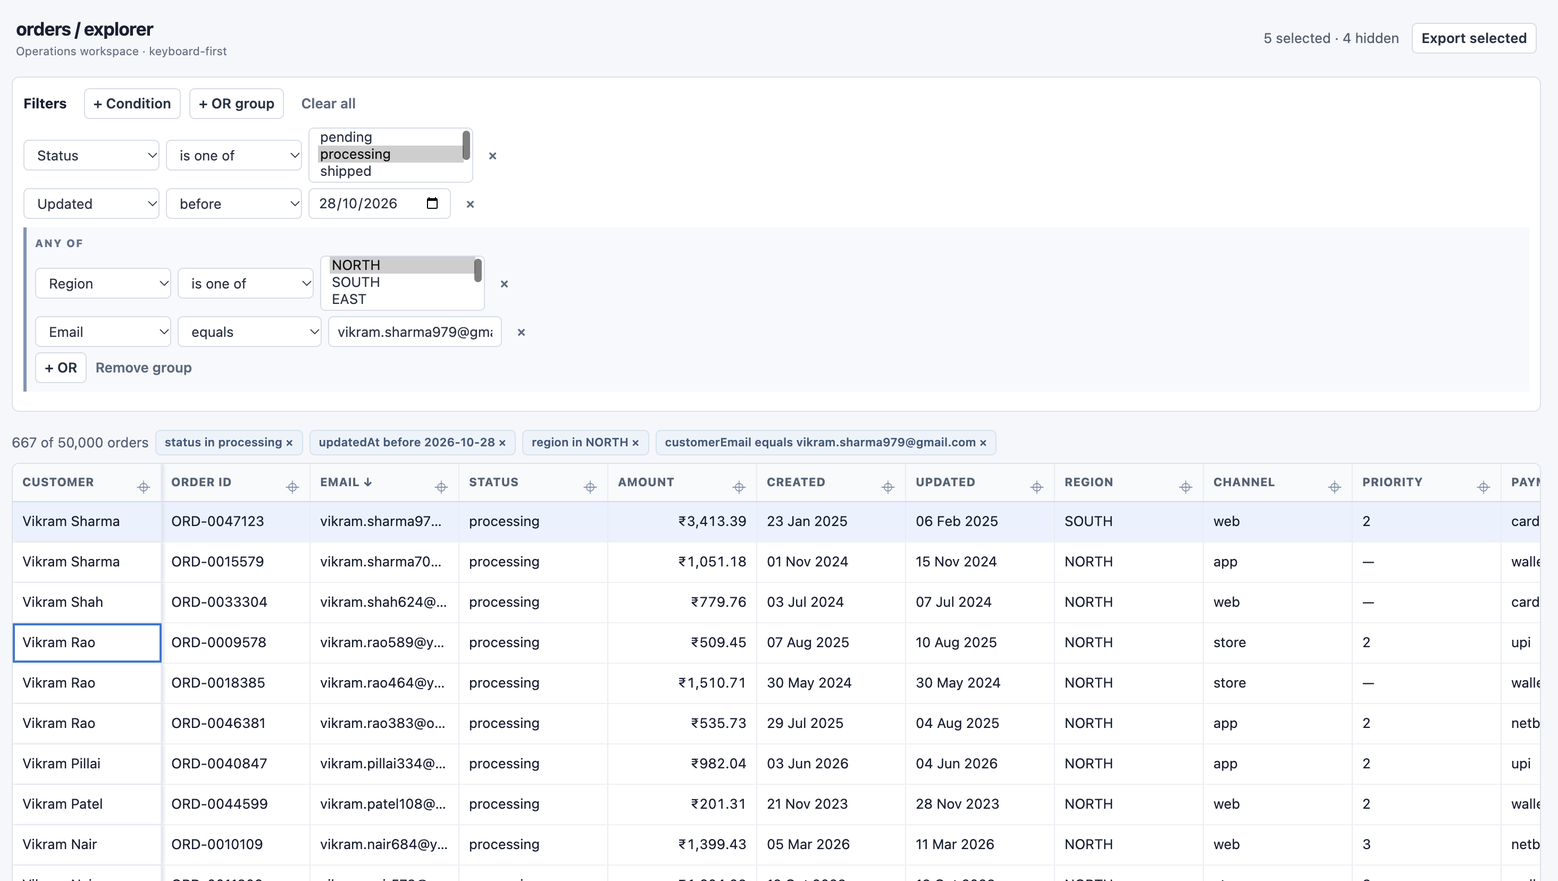
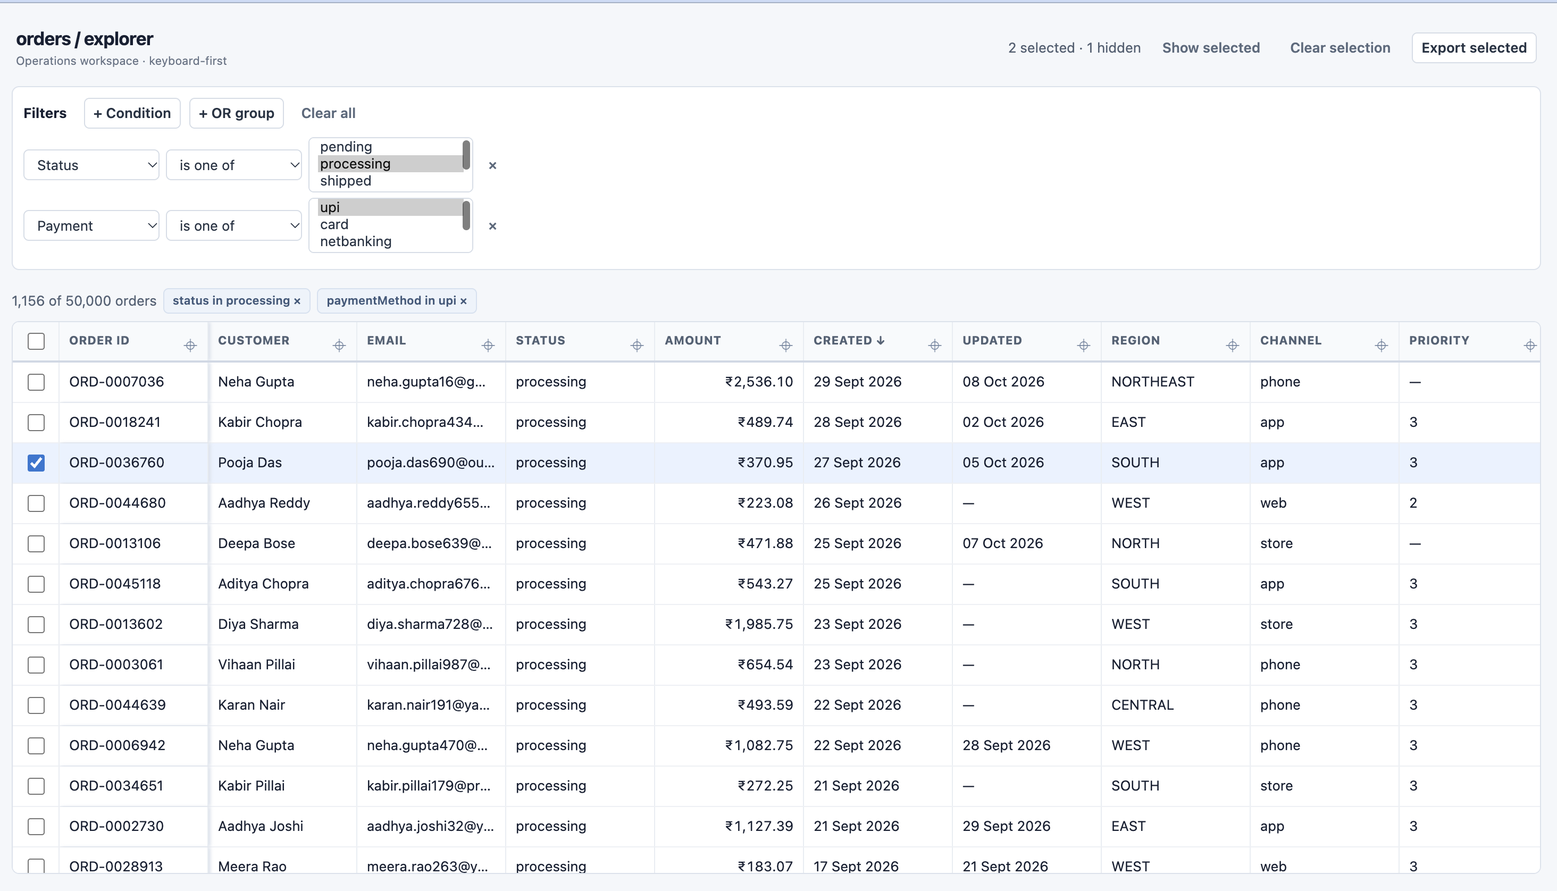
feat: improve grid selection and pinned columns

diff --git a/src/App.tsx b/src/App.tsx
@@ -1,23 +1,26 @@
 import {useEffect,useMemo,useRef,useState} from 'react';
 import {fields,fmt,normalizeOrders,options,type Field,type Order} from './lib/orders'; import {filter,ops,sort,type Condition,type Group} from './lib/query'; import {csv} from './lib/csv'; import './style.css';
-type State={s?:[Field,'asc'|'desc'];p?:Field;sel?:string[];f?:Condition[];g?:Group[]}; const newCondition=():Condition=>({id:crypto.randomUUID(),field:'status',op:'in',value:'pending'});
+type State={s?:[Field,'asc'|'desc'];p?:Field;sel?:string[];f?:Condition[];g?:Group[];onlySelected?:boolean}; const newCondition=():Condition=>({id:crypto.randomUUID(),field:'status',op:'in',value:'pending'});
 function decode():[State,string?]{try{const p=new URLSearchParams(location.search).get('q');if(!p)return [{}];const x=JSON.parse(atob(p));if(!x||typeof x!=='object')throw 0; return [x]}catch{return [{},'Saved view was invalid, so the default view was restored.']}}
 function encode(x:State){return btoa(JSON.stringify(x))}
-export default function App(){const initial=useRef(decode()); const [rows,setRows]=useState<Order[]>([]);const [notice,setNotice]=useState(initial.current[1]);const [loading,setLoading]=useState(true);const [standalone,setStandalone]=useState<Condition[]>(initial.current[0].f??[]);const [groups,setGroups]=useState<Group[]>(initial.current[0].g??[]);const [sortState,setSort]=useState<[Field,'asc'|'desc']>(initial.current[0].s??['createdAt','desc']);const [pinned,setPinned]=useState<Field|undefined>(initial.current[0].p);const [selected,setSelected]=useState(()=>new Set(initial.current[0].sel??[]));const [focus,setFocus]=useState({r:0,c:0});const [details,setDetails]=useState<Order|null>(null);const [anchor,setAnchor]=useState<string>();const [widths,setWidths]=useState<Record<string,number>>({});const grid=useRef<HTMLDivElement>(null);const [scroll,setScroll]=useState(0);
+export default function App(){const initial=useRef(decode()); const [rows,setRows]=useState<Order[]>([]);const [notice,setNotice]=useState(initial.current[1]);const [loading,setLoading]=useState(true);const [standalone,setStandalone]=useState<Condition[]>(initial.current[0].f??[]);const [groups,setGroups]=useState<Group[]>(initial.current[0].g??[]);const [sortState,setSort]=useState<[Field,'asc'|'desc']>(initial.current[0].s??['createdAt','desc']);const [pinned,setPinned]=useState<Field|undefined>(initial.current[0].p);const [selected,setSelected]=useState(()=>new Set(initial.current[0].sel??[]));const [onlySelected,setOnlySelected]=useState(!!initial.current[0].onlySelected);const [focus,setFocus]=useState({r:0,c:0});const [details,setDetails]=useState<Order|null>(null);const [anchor,setAnchor]=useState<string>();const [widths,setWidths]=useState<Record<string,number>>({});const grid=useRef<HTMLDivElement>(null);const gridHdr=useRef<HTMLDivElement>(null);const [scroll,setScroll]=useState(0);
 useEffect(()=>{fetch('/orders.json').then(r=>r.json()).then(x=>setRows(normalizeOrders(x))).catch(()=>setNotice('Could not load orders data.')).finally(()=>setLoading(false))},[]);
-useEffect(()=>{const h=setTimeout(()=>{const q=encode({s:sortState,p:pinned,sel:[...selected],f:standalone,g:groups});history.replaceState(null,'','?q='+encodeURIComponent(q))},250);return()=>clearTimeout(h)},[sortState,pinned,selected,standalone,groups]);
-useEffect(()=>{const fn=()=>{const [x,msg]=decode();setStandalone(x.f??[]);setGroups(x.g??[]);setSort(x.s??['createdAt','desc']);setPinned(x.p);setSelected(new Set(x.sel??[]));setNotice(msg)};addEventListener('popstate',fn);return()=>removeEventListener('popstate',fn)},[]);
+useEffect(()=>{const h=setTimeout(()=>{const q=encode({s:sortState,p:pinned,sel:[...selected],f:standalone,g:groups,onlySelected});history.replaceState(null,'','?q='+encodeURIComponent(q))},250);return()=>clearTimeout(h)},[sortState,pinned,selected,standalone,groups,onlySelected]);
+useEffect(()=>{const fn=()=>{const [x,msg]=decode();setStandalone(x.f??[]);setGroups(x.g??[]);setSort(x.s??['createdAt','desc']);setPinned(x.p);setSelected(new Set(x.sel??[]));setOnlySelected(!!x.onlySelected);setNotice(msg)};addEventListener('popstate',fn);return()=>removeEventListener('popstate',fn)},[]);
 // A filtered result can be much shorter than the previous one. Resetting the
 // virtual viewport keeps us from asking for rows beyond the end of that result.
-useEffect(()=>{setScroll(0);if(grid.current)grid.current.scrollTop=0},[standalone,groups,sortState]);
-const shown=useMemo(()=>sort(filter(rows,standalone,groups),sortState[0],sortState[1]),[rows,standalone,groups,sortState]); const visibleSel=shown.filter(x=>selected.has(x.id)).length; const rowH=38, start=Math.max(0,Math.floor(scroll/rowH)-8),end=Math.min(shown.length,start+Math.ceil(540/rowH)+16), virtual=shown.slice(start,end); const columns=useMemo(()=>pinned?[...fields.filter(f=>f.key===pinned),...fields.filter(f=>f.key!==pinned)]:fields,[pinned]);
+useEffect(()=>{setScroll(0);if(grid.current)grid.current.scrollTop=0},[standalone,groups,sortState,onlySelected]);
+const filtered=useMemo(()=>sort(filter(rows,standalone,groups),sortState[0],sortState[1]),[rows,standalone,groups,sortState]); const shown=useMemo(()=>onlySelected?sort(rows.filter(x=>selected.has(x.id)),sortState[0],sortState[1]):filtered,[rows,selected,onlySelected,filtered,sortState]); const visibleSel=shown.filter(x=>selected.has(x.id)).length; const columns=useMemo(()=>pinned?[...fields.filter(f=>f.key===pinned),...fields.filter(f=>f.key!==pinned)]:fields,[pinned]); const rowH=38,gridH=grid.current?.clientHeight??600,colW=(k:string)=>widths[k]??(k==='notes'?260:140),totalW=44+columns.reduce((n,c)=>n+colW(c.key),0), start=Math.max(0,Math.floor(scroll/rowH)-8),end=Math.min(shown.length,start+Math.ceil(gridH/rowH)+16), virtual=shown.slice(start,end); const allShownSelected=shown.length>0&&visibleSel===shown.length;
+
 const apply=(id:string,fn:(c:Condition)=>Condition)=>setStandalone(a=>a.map(c=>c.id===id?fn(c):c)); const remove=(id:string)=>setStandalone(a=>a.filter(c=>c.id!==id)); const erase=(id:string)=>{remove(id);setGroups(gs=>gs.map(g=>({...g,conditions:g.conditions.filter(c=>c.id!==id)})))};
 function toggle(id:string,shift=false){setSelected(old=>{const n=new Set(old); if(shift&&anchor){const a=shown.findIndex(o=>o.id===anchor),b=shown.findIndex(o=>o.id===id);if(a>=0&&b>=0){for(let i=Math.min(a,b);i<=Math.max(a,b);i++)n.add(shown[i].id)}}else{if(n.has(id))n.delete(id);else n.add(id);setAnchor(id)}return n})}
+function toggleShown(){setSelected(old=>{const n=new Set(old);shown.forEach(o=>allShownSelected?n.delete(o.id):n.add(o.id));return n});setAnchor(shown[0]?.id)}
+function focusCell(r:number,c:number){setFocus({r,c});grid.current?.focus()}
 function onKey(e:React.KeyboardEvent){if((e.target as HTMLElement).matches('input,select,button'))return;let {r,c}=focus;if(e.key==='ArrowDown')r=Math.min(shown.length-1,r+1);else if(e.key==='ArrowUp')r=Math.max(0,r-1);else if(e.key==='ArrowRight')c=Math.min(columns.length-1,c+1);else if(e.key==='ArrowLeft')c=Math.max(0,c-1);else if(e.key===' '){e.preventDefault();if(shown[r])toggle(shown[r].id)}else if(e.key==='Enter'){if(shown[r])setDetails(shown[r]);return}else return;e.preventDefault();setFocus({r,c});const node=grid.current?.querySelector(`[data-cell="${r}-${c}"]`) as HTMLElement;node?.scrollIntoView({block:'nearest',inline:'nearest'})}
 function exportCsv(){const selectedRows=rows.filter(o=>selected.has(o.id));if(!selectedRows.length){setNotice('Select one or more orders before exporting.');return}const blob=new Blob([csv(selectedRows)],{type:'text/csv'}),a=document.createElement('a');a.href=URL.createObjectURL(blob);a.download=`orders-${selectedRows.length}.csv`;a.click();URL.revokeObjectURL(a.href)}
 function resize(key:string,e:React.PointerEvent){e.preventDefault();const start=e.clientX,base=widths[key]??(key==='notes'?260:140);const move=(x:PointerEvent)=>setWidths(w=>({...w,[key]:Math.max(100,Math.min(460,base+x.clientX-start))}));const up=()=>{removeEventListener('pointermove',move);removeEventListener('pointerup',up);document.body.classList.remove('resizing')};document.body.classList.add('resizing');addEventListener('pointermove',move);addEventListener('pointerup',up)}
-return <main><header><div><b>orders / explorer</b><small>Operations workspace · keyboard-first</small></div><div className="head-actions"><span>{selected.size} selected{selected.size!==visibleSel&&` · ${selected.size-visibleSel} hidden`}</span><button onClick={exportCsv}>Export selected</button></div></header>{notice&&<div className="notice">{notice}<button onClick={()=>setNotice(undefined)}>×</button></div>}
+return <main><header><div><b>orders / explorer</b><small>Operations workspace · keyboard-first</small></div><div className="head-actions"><span>{selected.size} selected{selected.size!==visibleSel&&` · ${selected.size-visibleSel} hidden`}</span><button className="plain" disabled={!selected.size&&!onlySelected} onClick={()=>setOnlySelected(x=>!x)}>{onlySelected?'Show results':'Show selected'}</button><button className="plain" disabled={!selected.size} onClick={()=>setSelected(new Set())}>Clear selection</button><button onClick={exportCsv}>Export selected</button></div></header>{notice&&<div className="notice">{notice}<button onClick={()=>setNotice(undefined)}>×</button></div>}
 <section className="filters"><div className="filter-title"><b>Filters</b><button onClick={()=>setStandalone(x=>[...x,newCondition()])}>+ Condition</button><button onClick={()=>setGroups(x=>[...x,{id:crypto.randomUUID(),conditions:[newCondition()]}])}>+ OR group</button><button className="plain" onClick={()=>{setStandalone([]);setGroups([])}}>Clear all</button></div>{standalone.map(c=><ConditionRow key={c.id} c={c} change={apply} remove={remove}/>)}{groups.map(g=><div className="group" key={g.id}><span>ANY OF</span>{g.conditions.map(c=><ConditionRow key={c.id} c={c} change={(id,fn)=>setGroups(gs=>gs.map(q=>q.id===g.id?{...q,conditions:q.conditions.map(k=>k.id===id?fn(k):k)}:q))} remove={id=>setGroups(gs=>gs.map(q=>q.id===g.id?{...q,conditions:q.conditions.filter(k=>k.id!==id)}:q))}/>) }<button onClick={()=>setGroups(gs=>gs.map(q=>q.id===g.id?{...q,conditions:[...q.conditions,newCondition()]}:q))}>+ OR</button><button className="plain" onClick={()=>setGroups(gs=>gs.filter(q=>q.id!==g.id))}>Remove group</button></div>)}</section>
-<section className="summary"><span>{loading?'Loading…':`${shown.length.toLocaleString()} of ${rows.length.toLocaleString()} orders`}</span>{[...standalone,...groups.flatMap(g=>g.conditions)].map(c=><button className="chip" key={c.id} onClick={()=>erase(c.id)}>{c.field} {c.op} {c.value} ×</button>)}</section>
-<div className="grid" ref={grid} tabIndex={0} onKeyDown={onKey} onScroll={e=>setScroll(e.currentTarget.scrollTop)} role="grid" aria-label="Orders"><div className="grid-inner" style={{minWidth:columns.reduce((n,c)=>n+(widths[c.key]??(c.key==='notes'?260:140)),0)}}><div className="row header" role="row">{columns.map(f=><div key={f.key} className={'cell '+(pinned===f.key?'pinned':'')} style={{width:widths[f.key]??(f.key==='notes'?260:140),left:pinned===f.key?0:undefined}} onClick={()=>setSort(x=>[f.key,x[0]===f.key&&x[1]==='asc'?'desc':'asc'])}>{f.label}{sortState[0]===f.key&&(sortState[1]==='asc'?' ↑':' ↓')}<button title={pinned===f.key?'Unpin column':'Pin column'} className="pin" onClick={e=>{e.stopPropagation();setPinned(pinned===f.key?undefined:f.key)}}>⌖</button><i className="resize" onPointerDown={e=>resize(f.key,e)}/></div>)}</div>{shown.length===0&&!loading?<div className="empty"><b>No orders match these filters.</b><button onClick={()=>{setStandalone([]);setGroups([])}}>Clear filters</button></div>:<div style={{height:shown.length*rowH,position:'relative'}}>{virtual.map((o,j)=>{const ri=start+j;return <div className={'row data '+(selected.has(o.id)?'selected':'')} role="row" key={o.id} style={{top:ri*rowH,height:rowH}} onClick={e=>toggle(o.id,e.shiftKey)}>{columns.map((f,ci)=><div role="gridcell" data-cell={`${ri}-${ci}`} key={f.key} title={fmt(o[f.key],f.key)} className={'cell '+(pinned===f.key?'pinned ':'')+(focus.r===ri&&focus.c===ci?'focused ':'')+(f.type==='number'?'numeric':'')} style={{width:widths[f.key]??(f.key==='notes'?260:140),left:pinned===f.key?0:undefined}}>{fmt(o[f.key],f.key)}</div>)}</div>})}</div>}</div></div>{details&&<aside><button onClick={()=>setDetails(null)}>×</button><h2>{details.id}</h2>{fields.map(f=><p key={f.key}><small>{f.label}</small>{fmt(details[f.key],f.key)}</p>)}</aside>}</main>}
+<section className="summary"><span>{loading?'Loading…':onlySelected?`${shown.length.toLocaleString()} selected orders`:`${shown.length.toLocaleString()} of ${rows.length.toLocaleString()} orders`}</span>{onlySelected&&<button className="chip" onClick={()=>setOnlySelected(false)}>Selected only ×</button>}{[...standalone,...groups.flatMap(g=>g.conditions)].map(c=><button className="chip" key={c.id} onClick={()=>erase(c.id)}>{c.field} {c.op} {c.value} ×</button>)}</section>
+<div className="grid-wrap" tabIndex={0} onKeyDown={onKey} role="grid" aria-label="Orders"><div className="grid-header" ref={gridHdr} onScroll={e=>{if(grid.current&&Math.abs(grid.current.scrollLeft-e.currentTarget.scrollLeft)>1)grid.current.scrollLeft=e.currentTarget.scrollLeft}}><div className="row header" role="row" style={{width:totalW,minWidth:totalW}}><div className="cell selection-cell"><input type="checkbox" aria-label={allShownSelected?'Deselect all matching orders':'Select all matching orders'} checked={allShownSelected} onChange={toggleShown}/></div>{columns.map(f=><div key={f.key} className={'cell '+(pinned===f.key?'pinned':'')} style={{width:colW(f.key),left:pinned===f.key?44:undefined}} onClick={()=>setSort(x=>[f.key,x[0]===f.key&&x[1]==='asc'?'desc':'asc'])}>{f.label}{sortState[0]===f.key&&(sortState[1]==='asc'?' ↑':' ↓')}<button title={pinned===f.key?'Unpin column':'Pin column'} className="pin" onClick={e=>{e.stopPropagation();setPinned(pinned===f.key?undefined:f.key)}}>⌖</button><i className="resize" onPointerDown={e=>resize(f.key,e)}/></div>)}</div></div><div className="grid" ref={grid} onScroll={e=>{setScroll(e.currentTarget.scrollTop);if(gridHdr.current&&Math.abs(gridHdr.current.scrollLeft-e.currentTarget.scrollLeft)>1)gridHdr.current.scrollLeft=e.currentTarget.scrollLeft}} role="rowgroup">{shown.length===0&&!loading?<div className="empty"><b>{onlySelected?'No orders are selected.':'No orders match these filters.'}</b><button onClick={()=>onlySelected?setOnlySelected(false):(setStandalone([]),setGroups([]))}>{onlySelected?'Show results':'Clear filters'}</button></div>:<div style={{height:shown.length*rowH,position:'relative',minWidth:totalW}}>{virtual.map((o,j)=>{const ri=start+j;return <div className={'row data '+(selected.has(o.id)?'selected':'')} role="row" key={o.id} style={{top:ri*rowH,height:rowH,width:totalW}}><div className="cell selection-cell"><input type="checkbox" aria-label={`Select order ${o.id}`} checked={selected.has(o.id)} onClick={e=>e.stopPropagation()} onChange={e=>toggle(o.id,(e.nativeEvent as MouseEvent).shiftKey)}/></div>{columns.map((f,ci)=><div role="gridcell" data-cell={`${ri}-${ci}`} key={f.key} title={fmt(o[f.key],f.key)} className={'cell '+(pinned===f.key?'pinned ':'')+(focus.r===ri&&focus.c===ci?'focused ':'')+(f.type==='number'?'numeric':'')} style={{width:colW(f.key),left:pinned===f.key?44:undefined}} onClick={()=>focusCell(ri,ci)}>{fmt(o[f.key],f.key)}</div>)}</div>})}</div>}</div></div>{details&&<aside><button onClick={()=>setDetails(null)}>×</button><h2>{details.id}</h2>{fields.map(f=><p key={f.key}><small>{f.label}</small>{fmt(details[f.key],f.key)}</p>)}</aside>}</main>}
 function ConditionRow({c,change,remove}:{c:Condition;change:(id:string,fn:(c:Condition)=>Condition)=>void;remove:(id:string)=>void}){const meta=fields.find(f=>f.key===c.field)!;return <div className="condition"><select value={c.field} onChange={e=>{const f=fields.find(x=>x.key===e.target.value)!;change(c.id,x=>({...x,field:f.key,op:ops[f.type][0].id,value:'',value2:''}))}}>{fields.map(f=><option key={f.key} value={f.key}>{f.label}</option>)}</select><select value={c.op} onChange={e=>change(c.id,x=>({...x,op:e.target.value as Condition['op'],value:'',value2:''}))}>{ops[meta.type].map(o=><option key={o.id} value={o.id}>{o.label}</option>)}</select>{meta.type==='enum'?<select multiple value={c.value.split('|').filter(Boolean)} onChange={e=>{const value=[...e.currentTarget.selectedOptions].map(o=>o.value).join('|');change(c.id,x=>({...x,value}))}}>{options[c.field].map(o=><option key={o}>{o}</option>)}</select>:<><input type={meta.type==='date'?'date':'text'} inputMode={meta.type==='number'?'decimal':undefined} value={c.value} placeholder="Value" onChange={e=>change(c.id,x=>({...x,value:e.target.value}))}/>{c.op==='between'&&<input type={meta.type==='date'?'date':'text'} value={c.value2??''} placeholder="And" onChange={e=>change(c.id,x=>({...x,value2:e.target.value}))}/>}</>}<button className="plain" onClick={()=>remove(c.id)} aria-label="Remove condition">×</button></div>}

diff --git a/src/style.css b/src/style.css
@@ -1,1 +1,5 @@
-:root{font:13px/1.35 Inter,ui-sans-serif,system-ui,sans-serif;color:#172033;background:#f5f7fa}*{box-sizing:border-box}body{margin:0}.resizing{user-select:none;cursor:col-resize}main{max-width:1500px;margin:auto;padding:16px}header{height:52px;display:flex;align-items:center;justify-content:space-between;padding:0 4px}header b{font-size:17px;letter-spacing:-.3px}header small{display:block;color:#687487;margin-top:2px}.head-actions{display:flex;align-items:center;gap:12px;color:#526073}button,select,input{font:inherit;border:1px solid #d6dde7;border-radius:5px;background:#fff;color:#273344;height:29px;padding:0 8px}button{cursor:pointer;font-weight:600}button:hover{border-color:#7d93b0;background:#f7faff}.plain{border:0;background:transparent;color:#5b6a7e}.notice{background:#fff5de;border:1px solid #f1d699;color:#765314;padding:7px 10px;border-radius:5px;display:flex;justify-content:space-between}.filters{background:white;border:1px solid #dbe2ec;border-radius:7px;padding:10px;margin:10px 0}.filter-title{display:flex;align-items:center;gap:8px;margin-bottom:8px}.filter-title b{margin-right:8px}.condition{display:flex;gap:6px;margin:5px 0;align-items:center}.condition select,.condition input{min-width:128px}.condition select[multiple]{height:52px;min-width:155px}.group{margin:8px 0;padding:8px;border-left:3px solid #8094b5;background:#f7f9fc}.group>span{font-size:10px;font-weight:800;letter-spacing:.1em;color:#62718a}.summary{height:38px;display:flex;align-items:center;gap:6px;overflow:auto;white-space:nowrap;color:#536276}.chip{height:24px;background:#edf3fb;color:#405a7c;border-color:#d5e1f0;font-size:11px}.grid{height:580px;overflow:auto;background:#fff;border:1px solid #dbe2ec;border-radius:7px;outline:none}.grid:focus{box-shadow:0 0 0 2px #8db7ef}.grid-inner{min-width:max-content}.row{display:flex}.header{position:sticky;top:0;z-index:4;background:#f8fafc;border-bottom:1px solid #cfd8e5;height:36px}.cell{flex:0 0 auto;height:100%;padding:9px 9px 7px;border-right:1px solid #e8edf3;white-space:nowrap;overflow:hidden;text-overflow:ellipsis;position:relative}.header .cell{font-size:11px;font-weight:750;color:#536276;text-transform:uppercase;letter-spacing:.03em;cursor:pointer;padding-top:10px}.data{position:absolute;left:0;border-bottom:1px solid #edf0f5;background:#fff}.data:hover{background:#f5f9ff}.data.selected{background:#e9f2ff}.numeric{text-align:right;font-variant-numeric:tabular-nums}.pinned{position:sticky;z-index:2;background-color:#fff;box-shadow:2px 0 3px #dbe2ec}.data:hover .pinned{background-color:#f5f9ff}.data.selected .pinned{background-color:#e9f2ff}.header .pinned{z-index:6;background-color:#f8fafc}.focused{outline:2px solid #2878d4;outline-offset:-2px;z-index:3}.pin{float:right;border:0;background:transparent;height:18px;padding:0 0 0 5px;font-size:15px;color:#7185a0}.resize{position:absolute;right:-3px;top:0;height:100%;width:7px;cursor:col-resize;z-index:8}.empty{height:260px;display:flex;gap:10px;align-items:center;justify-content:center;flex-direction:column;color:#647187}aside{position:fixed;right:0;top:0;height:100vh;width:340px;background:#fff;box-shadow:-6px 0 18px #1d2d4530;padding:22px;overflow:auto;z-index:20}aside>button{float:right;border:0;font-size:20px}aside h2{margin-top:32px}aside p{padding:8px 0;margin:0;border-bottom:1px solid #eee;white-space:pre-wrap;word-break:break-word}aside small{display:block;color:#768398;text-transform:uppercase;font-size:10px;font-weight:700}@media(max-width:700px){main{padding:8px}.filters{overflow:auto}.condition{min-width:620px}.grid{height:530px}header{height:auto;gap:8px;padding:5px 0}.head-actions{align-items:flex-end;flex-direction:column}}
+:root{font:13px/1.35 Inter,ui-sans-serif,system-ui,sans-serif;color:#172033;background:#f5f7fa}*{box-sizing:border-box}body{margin:0;height:100vh;overflow:hidden}.resizing{user-select:none;cursor:col-resize}main{max-width:1500px;margin:auto;padding:16px;height:100vh;display:flex;flex-direction:column;overflow:hidden}header{height:52px;display:flex;align-items:center;justify-content:space-between;padding:0 4px}header b{font-size:17px;letter-spacing:-.3px}header small{display:block;color:#687487;margin-top:2px}.head-actions{display:flex;align-items:center;gap:12px;color:#526073}button,select,input{font:inherit;border:1px solid #d6dde7;border-radius:5px;background:#fff;color:#273344;height:29px;padding:0 8px}button{cursor:pointer;font-weight:600}button:hover{border-color:#7d93b0;background:#f7faff}.plain{border:0;background:transparent;color:#5b6a7e}.notice{background:#fff5de;border:1px solid #f1d699;color:#765314;padding:7px 10px;border-radius:5px;display:flex;justify-content:space-between}.filters{background:white;border:1px solid #dbe2ec;border-radius:7px;padding:10px;margin:10px 0}.filter-title{display:flex;align-items:center;gap:8px;margin-bottom:8px}.filter-title b{margin-right:8px}.condition{display:flex;gap:6px;margin:5px 0;align-items:center}.condition select,.condition input{min-width:128px}.condition select[multiple]{height:52px;min-width:155px}.group{margin:8px 0;padding:8px;border-left:3px solid #8094b5;background:#f7f9fc}.group>span{font-size:10px;font-weight:800;letter-spacing:.1em;color:#62718a}.summary{height:38px;display:flex;align-items:center;gap:6px;overflow:auto;white-space:nowrap;color:#536276}.chip{height:24px;background:#edf3fb;color:#405a7c;border-color:#d5e1f0;font-size:11px}.grid-wrap{flex:1 1 0;min-height:0;display:flex;flex-direction:column;border:1px solid #dbe2ec;border-radius:7px;overflow:hidden;outline:none}.grid-wrap:focus{box-shadow:0 0 0 2px #8db7ef}.grid-header{width:100%;max-width:100%;min-width:0;overflow-x:scroll;overflow-y:hidden;flex:0 0 auto;background:#f8fafc;border-bottom:2px solid #cfd8e5;scrollbar-width:none}.grid-header::-webkit-scrollbar{display:none}.grid{width:100%;max-width:100%;min-width:0;flex:1 1 0;min-height:0;overflow:auto;background:#fff;outline:none}.row{display:flex}.header{height:36px}.cell{flex:0 0 auto;height:100%;padding:9px 9px 7px;border-right:1px solid #e8edf3;white-space:nowrap;overflow:hidden;text-overflow:ellipsis;position:relative}.header .cell{font-size:11px;font-weight:750;color:#536276;text-transform:uppercase;letter-spacing:.03em;cursor:pointer;padding-top:10px;background:#f8fafc}.data{position:absolute;left:0;border-bottom:1px solid #edf0f5;background:#fff}.data:hover{background:#f5f9ff}.data.selected{background:#e9f2ff}.numeric{text-align:right;font-variant-numeric:tabular-nums}.pinned{position:sticky;z-index:2;background-color:#fff;box-shadow:2px 0 3px #dbe2ec}.data:hover .pinned{background-color:#f5f9ff}.data.selected .pinned{background-color:#e9f2ff}.header .pinned{z-index:6;background-color:#f8fafc}.focused{outline:2px solid #2878d4;outline-offset:-2px;z-index:3}.pin{float:right;border:0;background:transparent;height:18px;padding:0 0 0 5px;font-size:15px;color:#7185a0}.resize{position:absolute;right:-3px;top:0;height:100%;width:7px;cursor:col-resize;z-index:8}.empty{height:260px;display:flex;gap:10px;align-items:center;justify-content:center;flex-direction:column;color:#647187}aside{position:fixed;right:0;top:0;height:100vh;width:340px;background:#fff;box-shadow:-6px 0 18px #1d2d4530;padding:22px;overflow:auto;z-index:20}aside>button{float:right;border:0;font-size:20px}aside h2{margin-top:32px}aside p{padding:8px 0;margin:0;border-bottom:1px solid #eee;white-space:pre-wrap;word-break:break-word}aside small{display:block;color:#768398;text-transform:uppercase;font-size:10px;font-weight:700}@media(max-width:700px){main{padding:8px}.filters{overflow:auto}.condition{min-width:620px}.grid-wrap{flex:1 1 0;min-height:200px;display:flex;flex-direction:column}header{height:auto;gap:8px;padding:5px 0}.head-actions{align-items:flex-end;flex-direction:column}}
+
+.selection-cell{position:sticky;left:0;z-index:5;width:44px!important;padding:0!important;display:grid;place-items:center;background:#fff}.header .selection-cell{position:sticky;top:0;left:0;z-index:9;background:#f8fafc;font-size:9px!important}.data:hover .selection-cell{background:#f5f9ff}.data.selected .selection-cell{background:#e9f2ff}.selection-cell input{width:16px;height:16px;padding:0;accent-color:#2878d4}
+.focused{outline:0;box-shadow:inset 0 0 0 2px #2878d4}.pinned.focused{box-shadow:inset 0 0 0 2px #2878d4,2px 0 3px #dbe2ec}
+.data .pinned{z-index:4;background-color:#fff!important;background-clip:padding-box;isolation:isolate}.data:hover .pinned{background-color:#f5f9ff!important}.data.selected .pinned{background-color:#e9f2ff!important}
